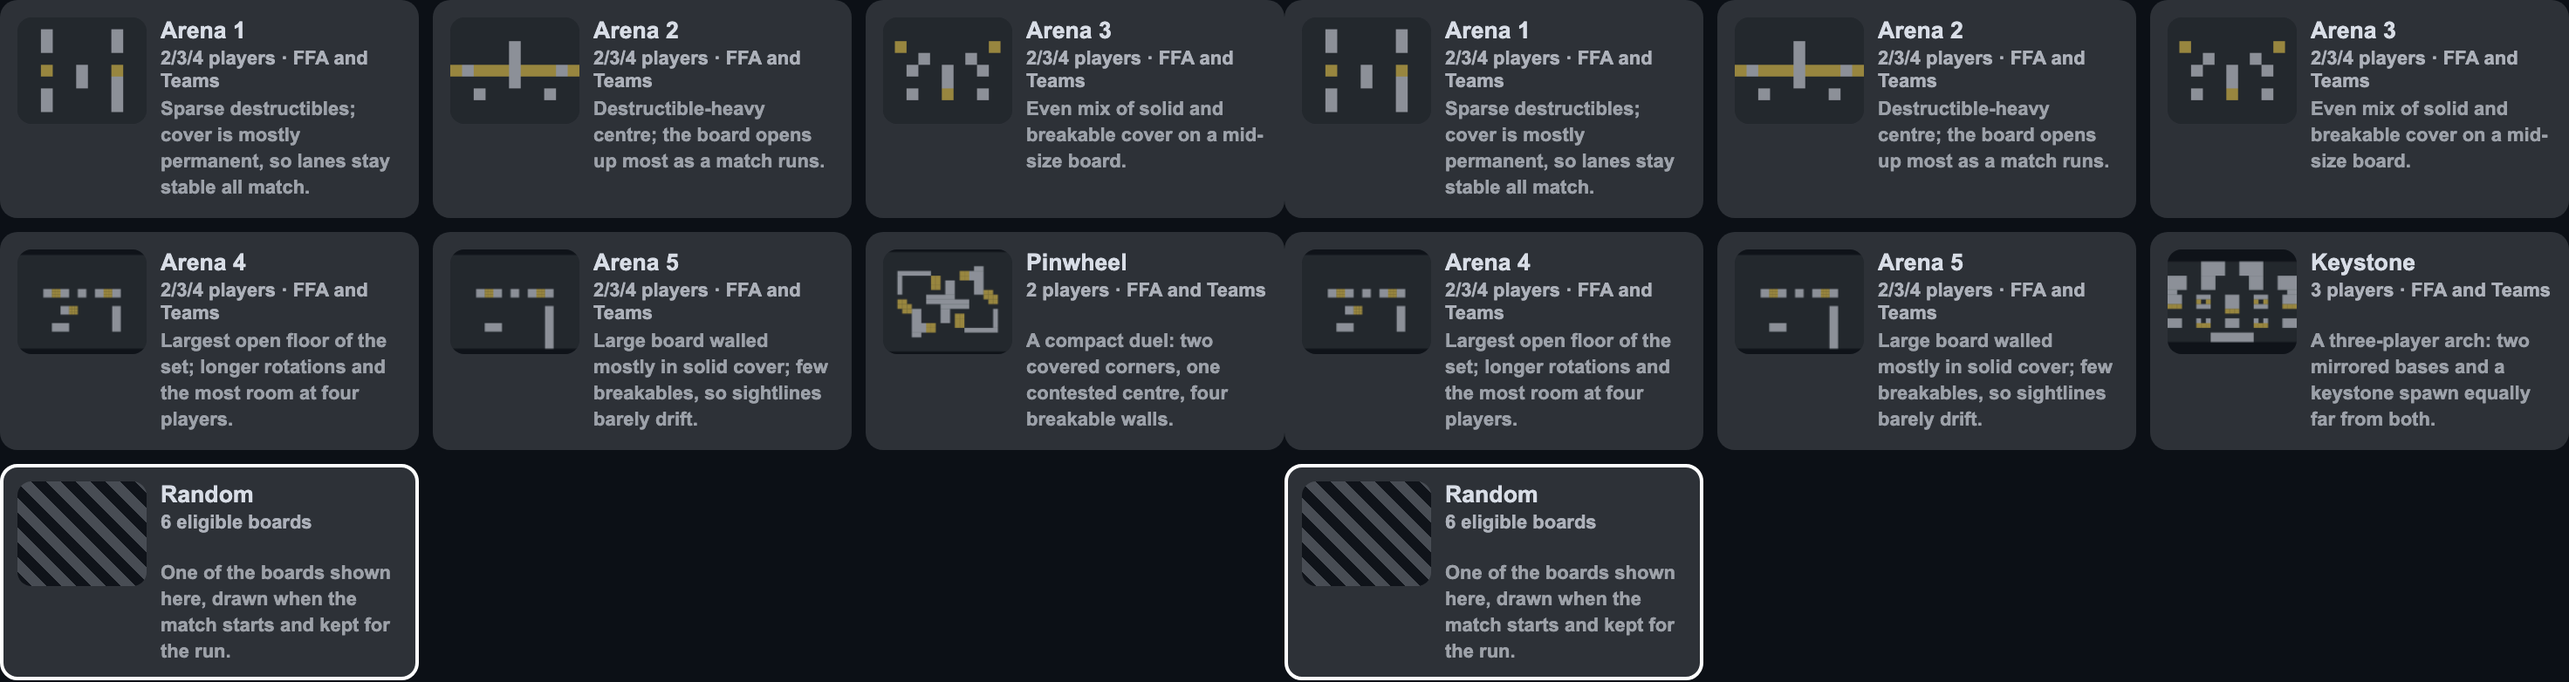
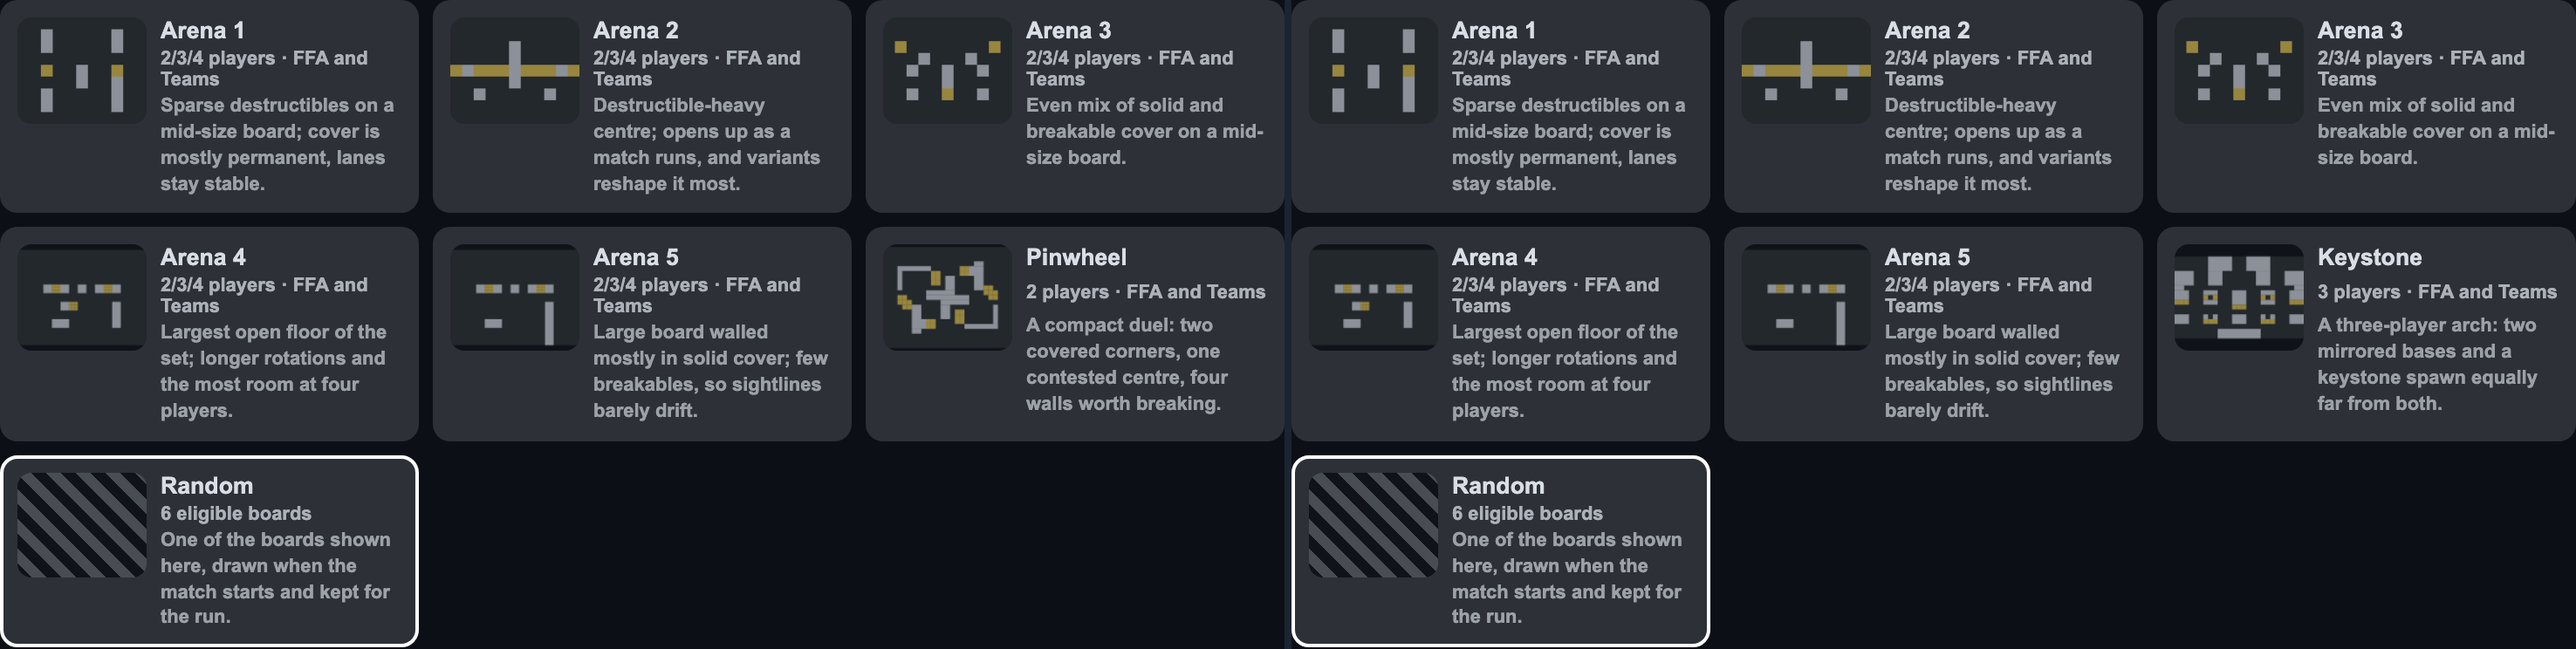
Update map card evidence for the final render

Changed region(s): [[0.0, 0.0309, 1.0, 1.0], [0.3438, 0.0309, 0.5, 0.2782], [0.8438, 0.0309, 1.0, 0.2782]]

diff --git a/issue-map-card/README.md b/issue-map-card/README.md
@@ -44,10 +44,14 @@ Every card is one height, and the two states are identical.
 
 | | before | after |
 | --- | --- | --- |
-| desktop card heights | 110.4 / 122.4 / 137.2 / 140.1 | **124.8, every card, every count** |
-| phone card heights | 80.7 / 95.5 | **81.9, every card, every count** |
-| desktop row height, 2p vs 3p | 774 vs 808 | **782 vs 782** |
-| phone row height, 2p vs 3p | 1226 vs 1256 | **1244 vs 1244** |
+| desktop board cards | 122.4 / 137.2 / 140.1, moving with the list | **122.4, every board, every count** |
+| phone cards | 80.7 / 95.5 | **80.7, every card, every count** |
+| desktop map row, 2p vs 3p | 774 vs 808 | **identical** |
+| phone map row, 2p vs 3p | 1226 vs 1256 | **identical** |
+
+Random stays 110.4 on desktop. It is always alone in the last row (the grid caps at 46rem and
+resolves to three columns, so seven cards lay out 3 + 3 + 1), and grid rows are already
+equal-height, so no card ever sits beside it to mismatch.
 
 ## How
 
@@ -63,6 +67,6 @@ Shorten **and** clamp, per the owner's call:
   240px desktop grid column, **288px** in the single full-width column below 760px. Four lines
   there is two here; forcing four on a phone would add ~30px of whitespace per card down a
   seven-card column.
-- The config line gets the same treatment at 2 lines / 1 line — it was the remaining 12px,
-  since a board reads "2/3/4 players - FFA and Teams" (two lines) and Random reads
-  "6 eligible boards" (one).
+- The config line gets **no** reserved height. A draft gave it one, to raise Random to meet
+  the boards, and it was removed after looking at the render: it bought a cross-row difference
+  nobody can see and cost a blank line inside Random's card that read as missing copy.
